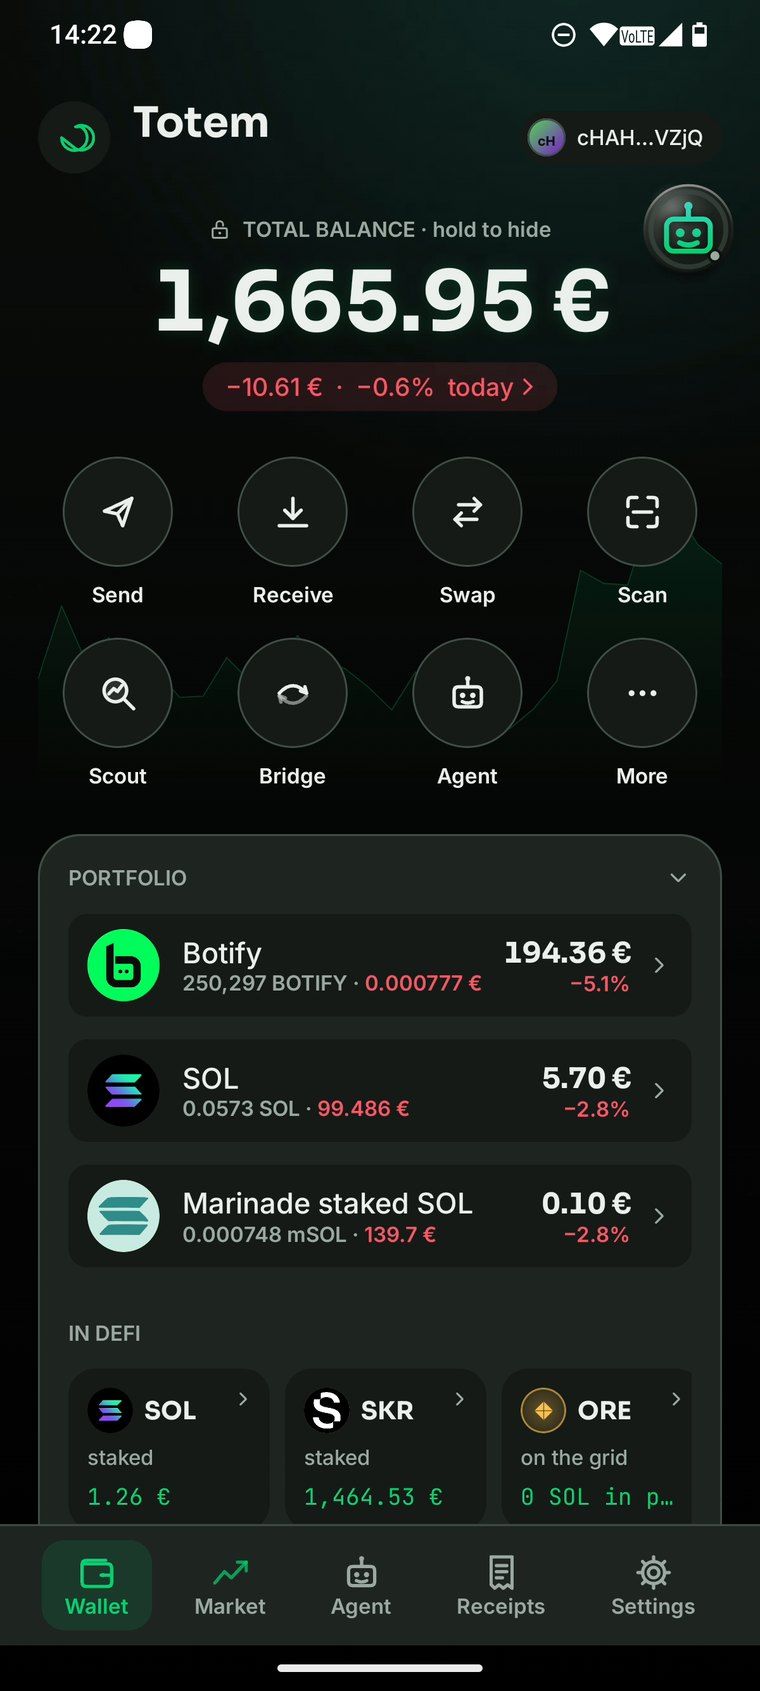
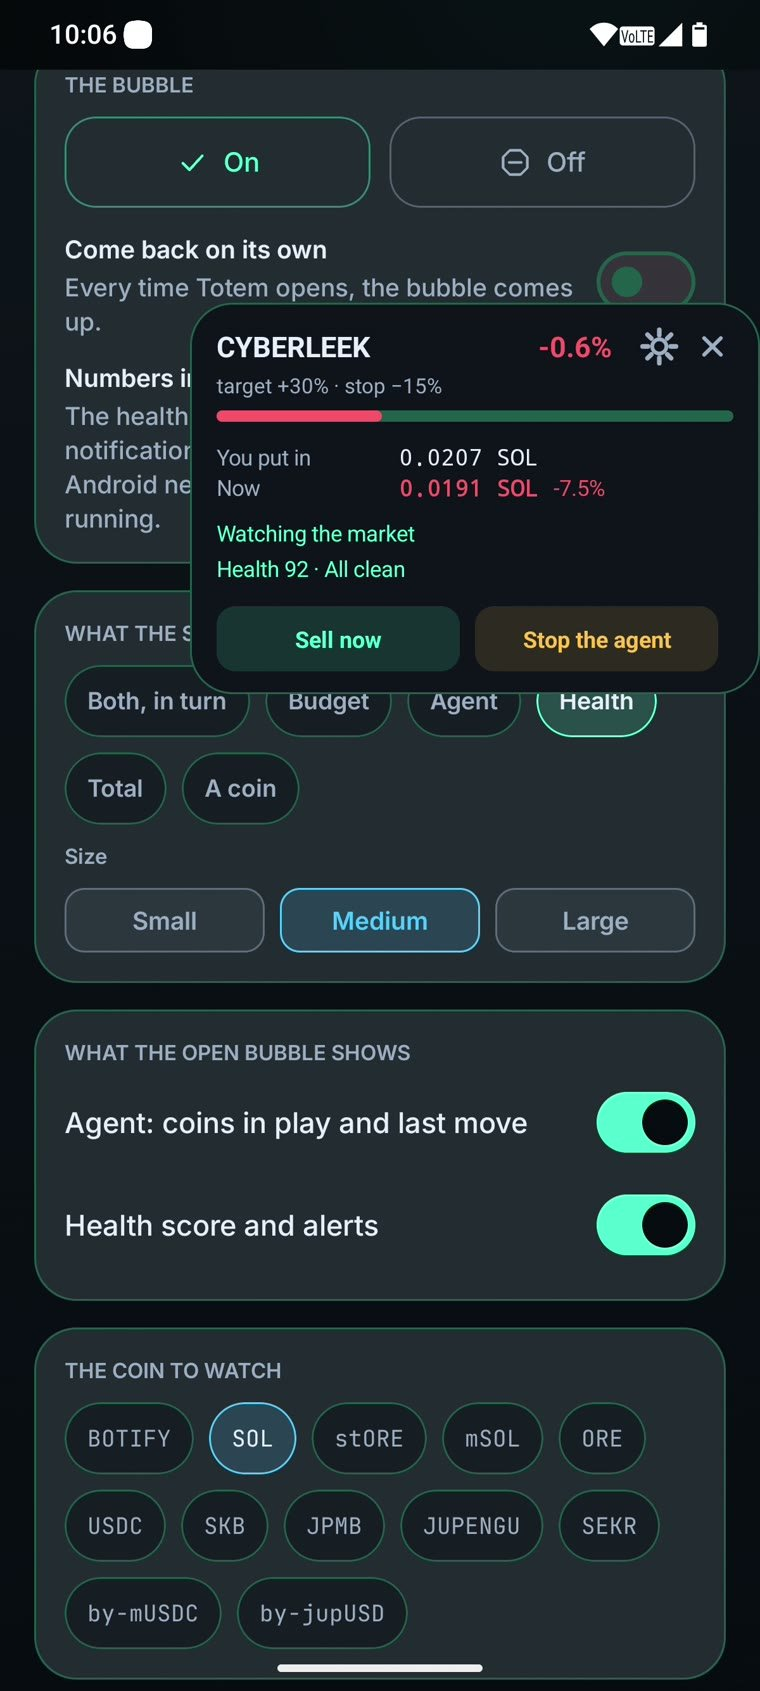
deck: the photos that were missing, and the market said as it is
The agent slide shows the agent's live screen instead of the home, Scout no
longer has the bubble over it, the companion is open as its caption says,
and the market, pay by touch and the bridge get their photos, taken from the
tour's takes. The market ranks every chain, not only Solana, and its charts
come from the coin's pool on GeckoTerminal, or CoinGecko when there is none.

diff --git a/index.html b/index.html
@@ -271,7 +271,7 @@
         <p>And you can watch it: the open positions on charts with entry, target and stop drawn in,
         its reasoning typed out as it arrives, and a voice that says what it is doing.</p>
       </div>
-      <img class="shot" src="img/home.jpg" alt="The Totem home: balance, the action circles, the portfolio and the DeFi positions.">
+      <img class="shot" src="img/agent.jpg" alt="The agent's live screen: the coin it holds on its chart with entry, target and stop, and its thoughts as they arrive.">
     </div>
   </section>
 
@@ -314,19 +314,19 @@
         the yield measured from the share price: 15.4%, against the 21.25% you would get by deriving
         it from tokenomics.</p>
       </div>
-      <img class="shot" src="img/scout.jpg" alt="Scout's census card: half of the active Seekers keep SKR staked, with the average each.">
+      <img class="shot" src="img/scout.jpg" alt="Scout, Holding: what the 10,527 active Seekers hold, and the half of them who keep SKR staked, with the average each.">
     </div>
   </section>
 
   <section>
-    <div class="wrap">
+    <div class="wrap split">
       <div>
         <p class="eyebrow">08 · The market, inside the wallet</p>
         <h2>Every coin, its chart, and what yours would be worth</h2>
         <p>No jumping to a browser to look something up.</p>
         <ul>
-          <li><b>Every coin on Solana</b>, ranked by market cap, searchable, each with its chart and
-          its price history from CoinGecko.</li>
+          <li><b>Every coin</b>, ranked by market cap across every chain, searchable, each with its
+          chart: from its pool on GeckoTerminal when it trades on Solana, from CoinGecko otherwise.</li>
           <li><b>What if it were as big as…</b> pick any other coin and see what one of yours would
           be worth at that market cap, and what your holding would be worth. Times two, ten, a hundred.</li>
           <li><b>Favourites</b> with their total, and a bell when something moves five percent.</li>
@@ -336,6 +336,7 @@
           card you can share.</li>
         </ul>
       </div>
+      <img class="shot" src="img/market.jpg" alt="A coin in the market: its chart, and what it would be worth at Tether's, Ethereum's and Bitcoin's market cap.">
     </div>
   </section>
 
@@ -356,7 +357,7 @@
   </section>
 
   <section>
-    <div class="wrap">
+    <div class="wrap split">
       <div>
         <p class="eyebrow">10 · Pay by touch</p>
         <h2>The things only a Seeker can do</h2>
@@ -373,11 +374,12 @@
           network at all.</li>
         </ul>
       </div>
+      <img class="shot" src="img/nfc.jpg" alt="Tap to be paid: the amount, then the two phones back to back.">
     </div>
   </section>
 
   <section>
-    <div class="wrap">
+    <div class="wrap split">
       <div>
         <p class="eyebrow">11 · Swaps and bridges</p>
         <h2>Out of the public queue, and across two hundred chains</h2>
@@ -392,6 +394,7 @@
           line about what it does and does not hide. It is not a mixer, and the app says so.</li>
         </ul>
       </div>
+      <img class="shot" src="img/bridge.jpg" alt="The bridge: SOL or USDC from Solana to another chain, through RocketX, with the chain picked and the order explained.">
     </div>
   </section>
 
